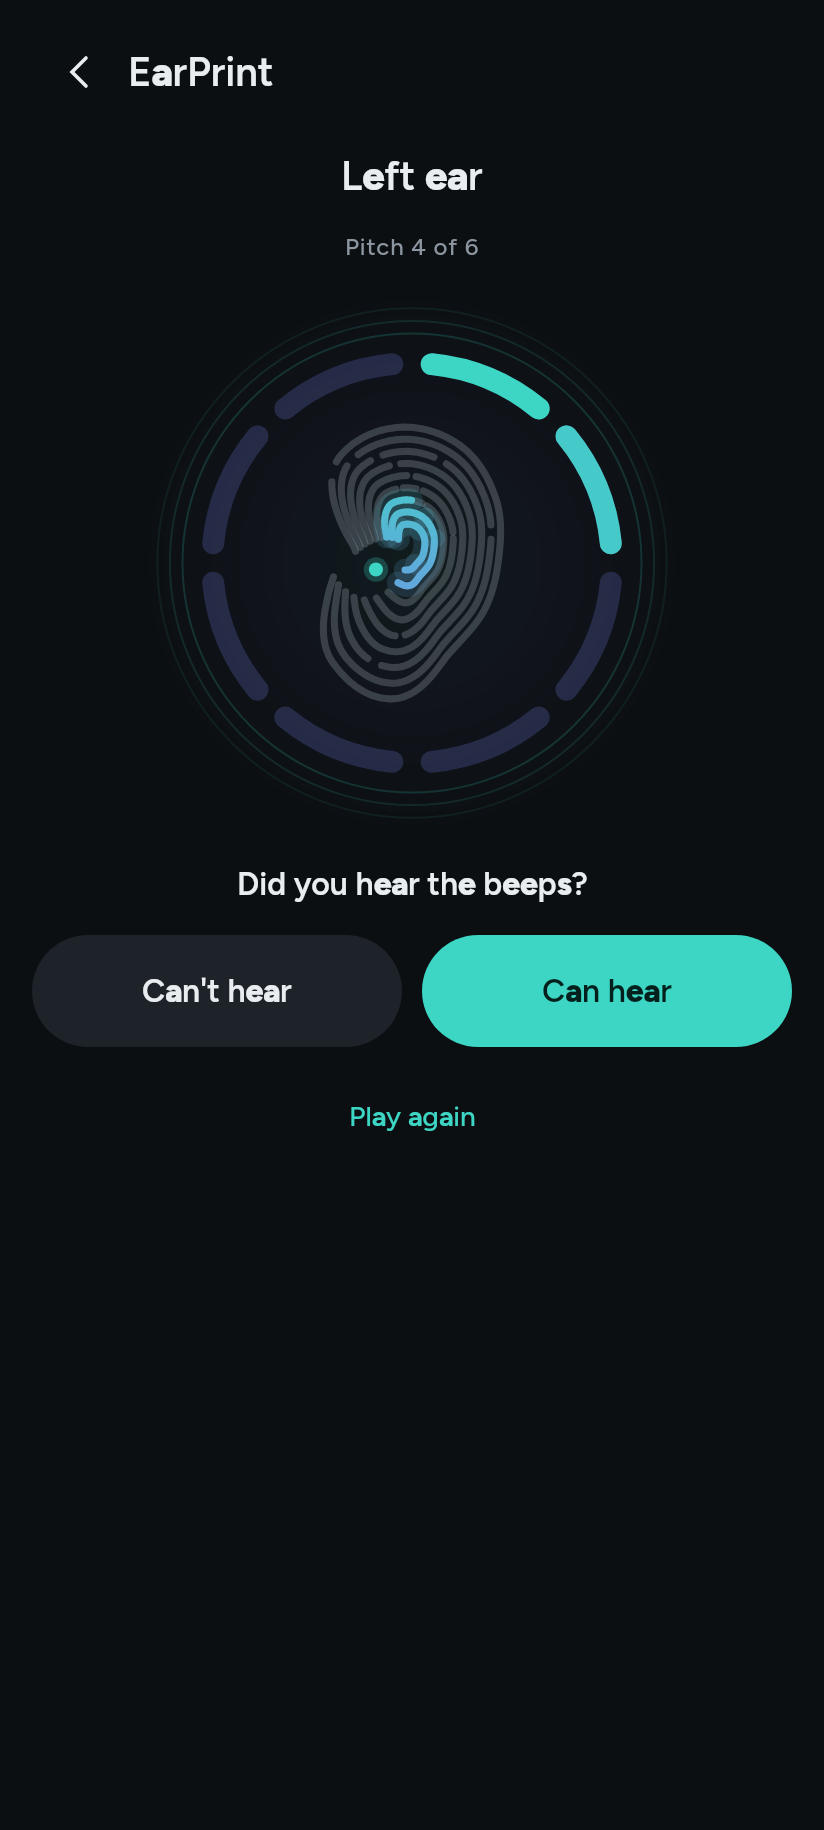
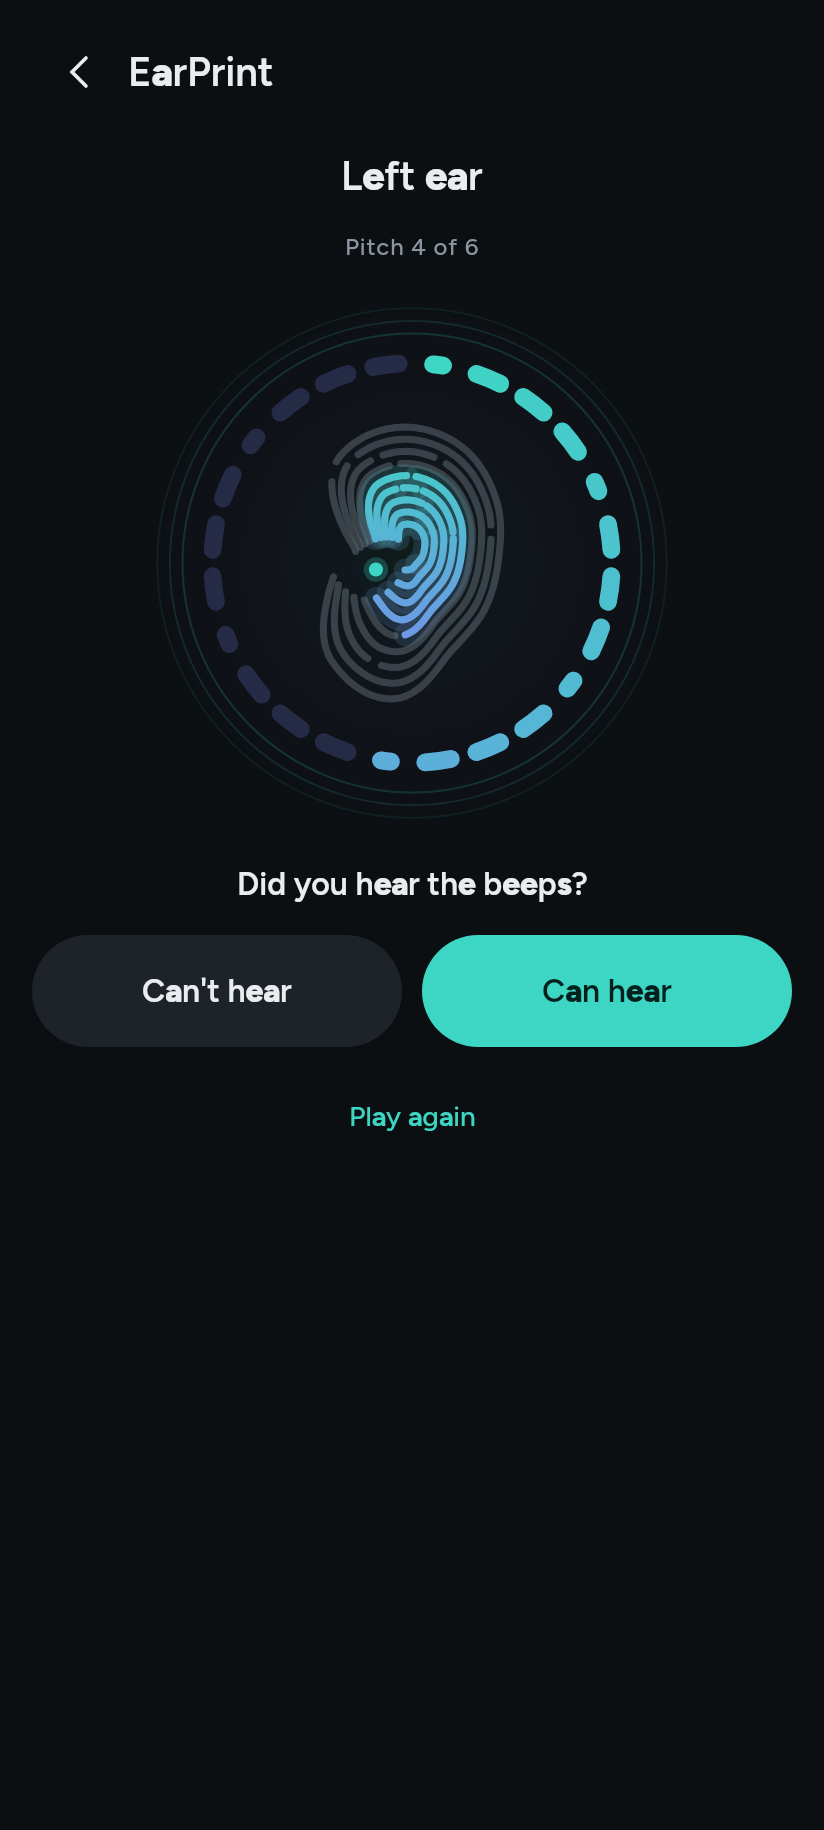
EarPrint hearing check: every Can hear or Can't hear lights a block on the ring, four to a pitch, and a finished pitch fills its group

diff --git a/ui/src/commonMain/kotlin/com/blazify/buds/ui/screens/EarPrintScreen.kt b/ui/src/commonMain/kotlin/com/blazify/buds/ui/screens/EarPrintScreen.kt
@@ -104,7 +104,7 @@ fun EarPrintScreen(state: BudsState, change: (Change) -> Unit, back: () -> Unit,
         if (preview >= 1) {
             stage = Stage.Hearing
             var n = 0
-            while (!hearing.done && (preview > 1 || n < 9)) { hearing.answer(n % 3 != 2); n++ }
+            while (!hearing.done && (preview > 1 || n < 10)) { hearing.answer(n % 3 != 2); n++ }
         }
         if (preview >= 2) {
             left = EarPrint.curve(hearing.thresholds(Ear.Left), age)
@@ -175,7 +175,19 @@ fun EarPrintScreen(state: BudsState, change: (Change) -> Unit, back: () -> Unit,
                         if (step != null) {
                             Text(if (step.ear == Ear.Left) "Left ear" else "Right ear", style = MaterialTheme.typography.titleLarge, color = palette.text)
                             Text("Pitch ${(step.number - 1) % EarPrint.TEST_PITCHES.size + 1} of ${EarPrint.TEST_PITCHES.size}", style = MaterialTheme.typography.labelMedium, color = palette.muted)
-                            FingerprintEar(hearing.progress, size = 270.dp, mirrored = step.ear == Ear.Right, listening = listening)
+                            // Every answer lights a block; a pitch that is done fills its group of four.
+                            val blocks = 4
+                            val lit = hearing.pitchesDone * blocks + minOf(hearing.answersOnPitch, blocks - 1)
+                            androidx.compose.runtime.key(step.ear) {
+                                FingerprintEar(
+                                    lit / (hearing.pitchCount * blocks).toFloat(),
+                                    size = 270.dp,
+                                    mirrored = step.ear == Ear.Right,
+                                    listening = listening,
+                                    segments = hearing.pitchCount * blocks,
+                                    group = blocks,
+                                )
+                            }
                             Text(
                                 if (listening) "Listen…" else "Did you hear the beeps?",
                                 style = MaterialTheme.typography.titleMedium,

diff --git a/ui/src/commonMain/kotlin/com/blazify/buds/ui/blocks/FingerprintEar.kt b/ui/src/commonMain/kotlin/com/blazify/buds/ui/blocks/FingerprintEar.kt
@@ -51,6 +51,8 @@ fun FingerprintEar(
     listening: Boolean = false,
     done: Boolean = false,
     ring: Boolean = true,
+    segments: Int = 8,
+    group: Int = 1,
 ) {
     val palette = LocalPalette.current
     val reduce = LocalReduceMotion.current
@@ -80,13 +82,13 @@ fun FingerprintEar(
                 drawCircle(bright.copy(alpha = (0.18f + 0.12f * glow) * (1f - drift * 0.8f)), r, c, style = Stroke(1.dp.toPx()))
             }
             // Eight thick segments; the one under way fills partly.
-            val segments = 8
-            val stroke = ringR * 0.11f
-            val capDeg = (stroke / ringR) * (180f / PI.toFloat())
             val sweep = 360f / segments
-            val gap = 5f + capDeg
+            val stroke = ringR * minOf(0.11f, sweep * (PI.toFloat() / 180f) * 0.34f)
+            val capDeg = (stroke / ringR) * (180f / PI.toFloat())
             val track = if (palette.background.luminance() < 0.5f) deep.copy(alpha = 0.22f) else deep.copy(alpha = 0.14f)
             for (i in 0 until segments) {
+                // A wider gap where one group of blocks ends and the next begins.
+                val gap = capDeg + if (group > 1 && i % group == 0) 7f else if (group > 1) 2.5f else 5f
                 val start = -90f + i * sweep + gap / 2
                 val length = sweep - gap
                 val topLeft = Offset(c.x - ringR, c.y - ringR)
@@ -94,7 +96,7 @@ fun FingerprintEar(
                 drawArc(track, start, length, false, topLeft, box, style = Stroke(stroke, cap = StrokeCap.Round))
                 val fill = if (done) 1f else (shown * segments - i).coerceIn(0f, 1f)
                 if (fill > 0f) {
-                    drawArc(lerp(bright, deep, i / (segments - 1f)), start, length * fill, false, topLeft, box, style = Stroke(stroke, cap = StrokeCap.Round))
+                    drawArc(lerp(bright, deep, i / maxOf(1f, segments - 1f)), start, length * fill, false, topLeft, box, style = Stroke(stroke, cap = StrokeCap.Round))
                 }
             }
         }

diff --git a/core/src/commonMain/kotlin/com/blazify/buds/core/earprint/EarPrint.kt b/core/src/commonMain/kotlin/com/blazify/buds/core/earprint/EarPrint.kt
@@ -79,6 +79,15 @@ class HearingTest(private val pitches: List<Int> = EarPrint.TEST_PITCHES) {
     private var heardAny = false
     private var quietestHeard = EarPrint.LOUDEST
     private var answers = 0
+
+    /** Answers given on the pitch being tested now. */
+    var answersOnPitch = 0
+        private set
+
+    /** How many pitches of the ear being tested are done. */
+    val pitchesDone: Int get() = pitchIndex
+
+    val pitchCount: Int get() = pitches.size
     private val results = mutableMapOf<Ear, MutableMap<Int, Double>>()
 
     val done: Boolean get() = earIndex >= ears.size
@@ -94,6 +103,7 @@ class HearingTest(private val pitches: List<Int> = EarPrint.TEST_PITCHES) {
     fun answer(heard: Boolean) {
         if (done) return
         answers++
+        answersOnPitch++
         if (heard) {
             heardAny = true
             quietestHeard = level
@@ -110,6 +120,7 @@ class HearingTest(private val pitches: List<Int> = EarPrint.TEST_PITCHES) {
     private fun finishPitch(threshold: Double) {
         results.getOrPut(ears[earIndex]) { mutableMapOf() }[pitches[pitchIndex]] = threshold
         heardAny = false
+        answersOnPitch = 0
         level = START
         pitchIndex++
         if (pitchIndex >= pitches.size) {
